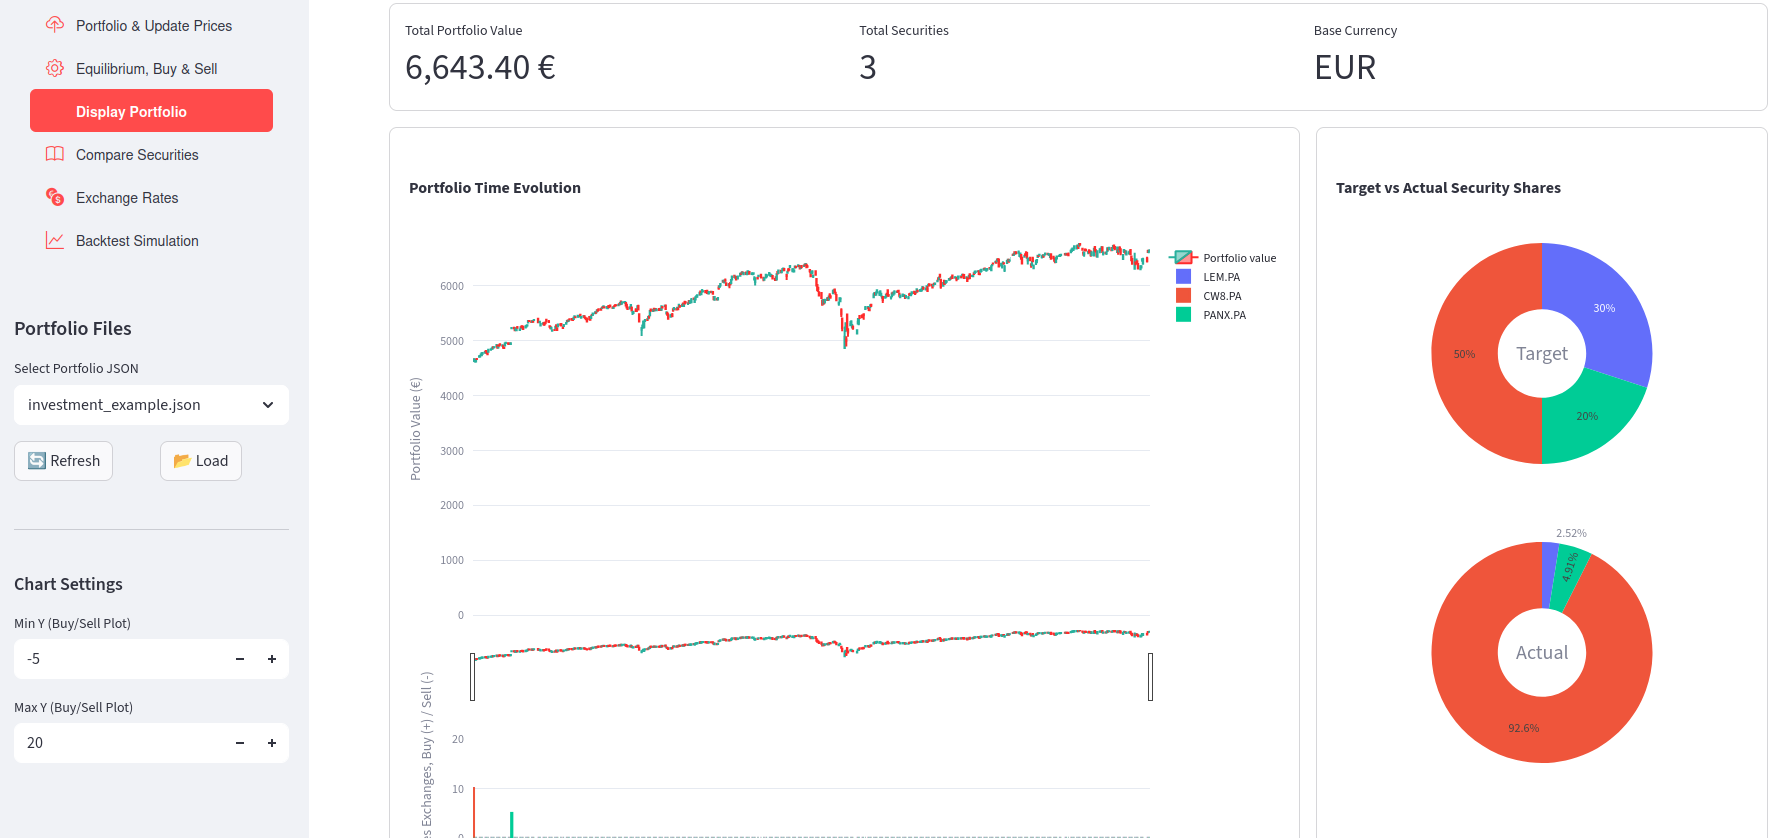
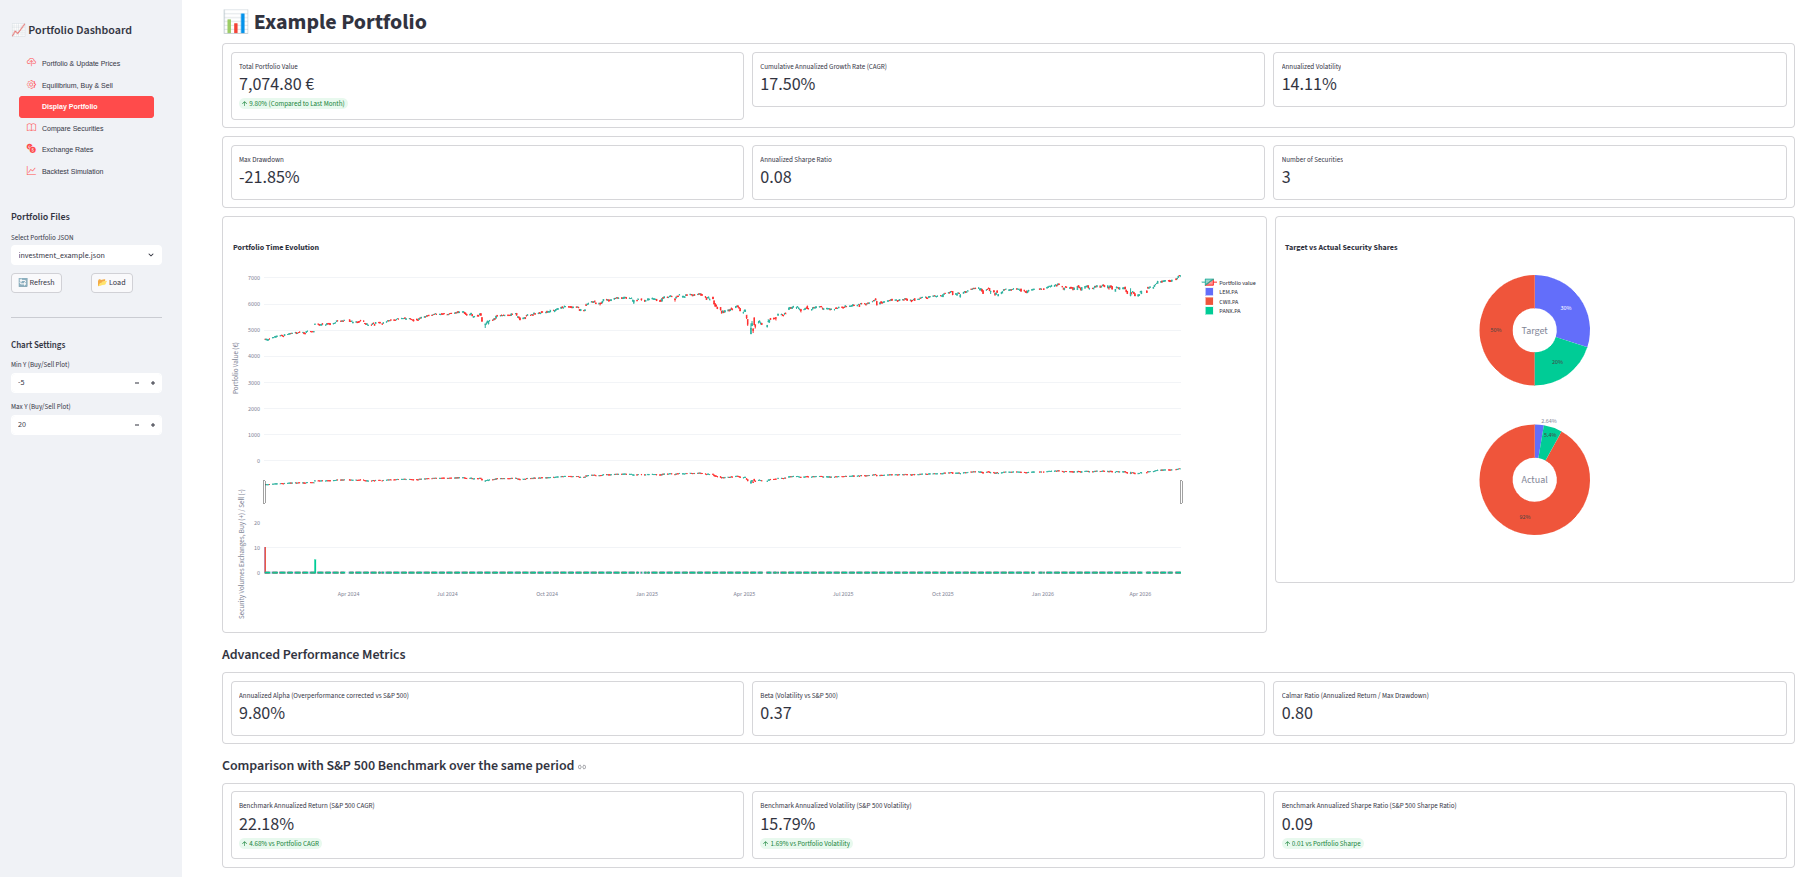
Update dash on README

diff --git a/README.md b/README.md
@@ -139,7 +139,7 @@ This starts a Streamlit application in your browser with the following pages:
 | ----------------------------- | -------------------------------------------------------------------------------------- |
 | **Portfolio & Update Prices** | Load/save portfolio JSON files, view holdings, update live prices, buy/sell securities |
 | **Equilibrium, Buy & Export** | Configure optimization parameters, run MIQP solver, view recommended trades            |
-| **Display Portfolio**         | Visualize portfolio with candlestick charts, pie charts (target vs actual allocation)  |
+| **Display Portfolio**         | Visualize portfolio with charts and performance statistics                             |
 | **Compare Securities**        | Compare investment contracts with different fees and tax regimes                       |
 | **Exchange Rates**            | Look up ECB exchange rates and convert currencies                                      |
 | **Backtest Simulation**       | Run historical backtests with equity curves, statistics, and return analysis           |
